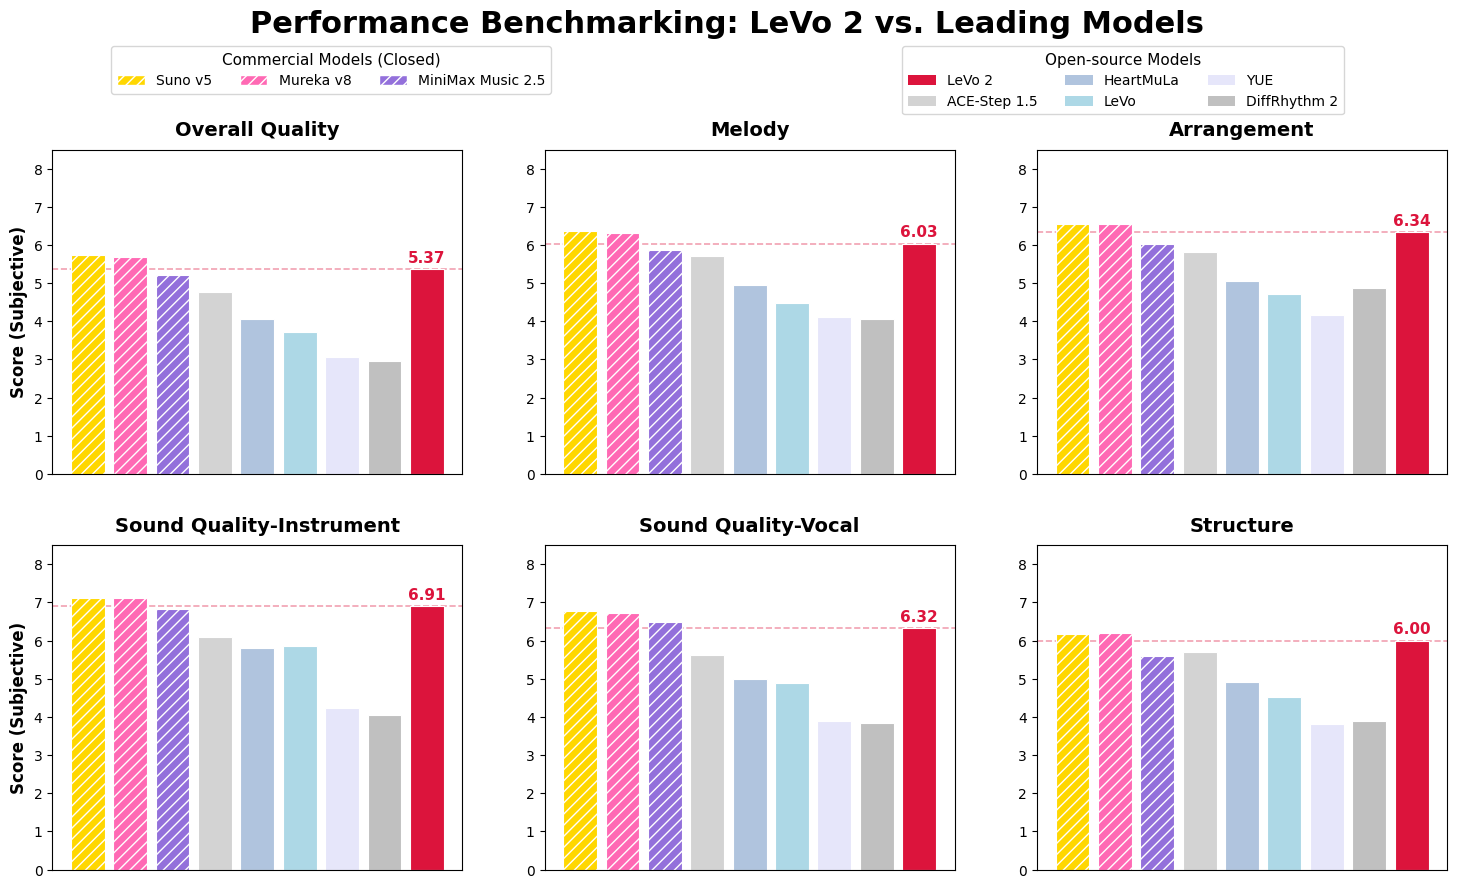
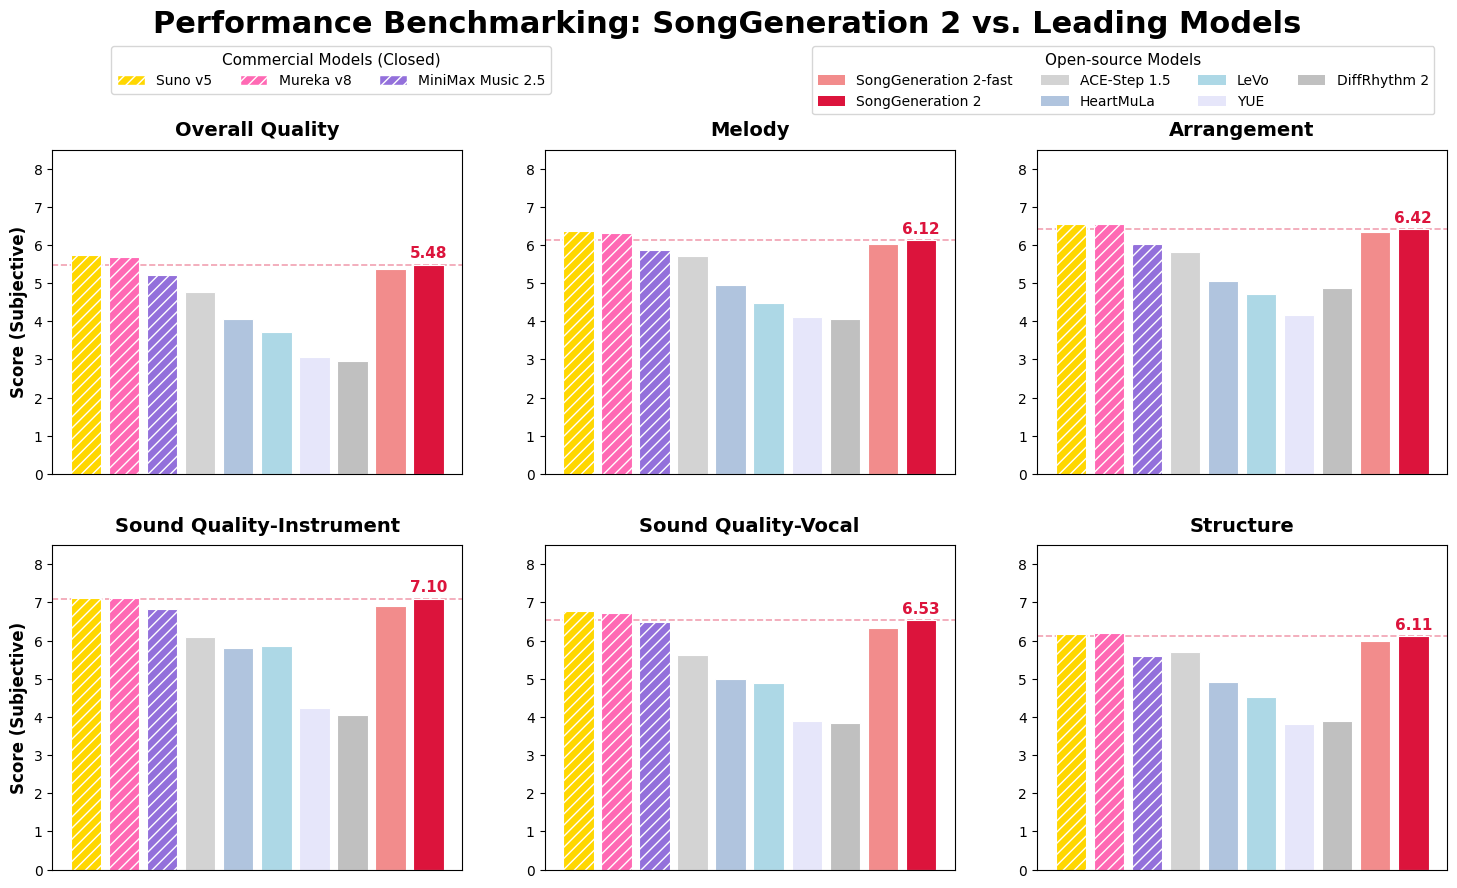
update

diff --git a/README.md b/README.md
@@ -11,7 +11,7 @@
 
 🚀 We introduce LeVo 2 (SongGeneration 2), an open-source music foundation model designed to shatter the ceiling of open-source AI music by achieving true commercial-grade generation. 
 
-Through a large-scale, rigorous expert evaluation (20 industry professionals, 6 core dimensions, 100 songs per model), LeVo 2 has proven its superiority:
+Through a large-scale, rigorous expert evaluation (20 industry professionals, 6 core dimensions, 100 songs per model), LeVo 2 (SongGeneration 2) has proven its superiority:
 
 - 🏆 Commercial-Grade Musicality: Comprehensively outperforms all open-source baselines across Overall Quality, Melody, Arrangement, Sound Quality, and Structure. Its subjective generation quality successfully rivals top-tier closed-source commercial systems (e.g., MiniMax 2.5).
 - 🎯 Precise Lyric Accuracy: Achieves an outstanding Phoneme Error Rate (PER) of 8.55%, effectively solving the lyrical hallucination problem. This remarkable accuracy significantly outperforms top commercial models like Suno v5 (12.4%) and Mureka v8 (9.96%).
@@ -299,7 +299,7 @@ To rigorously assess the generation capabilities of LeVo 2 (SongGeneration 2), w
 
 <img src="img/output.png" alt="img" style="zoom:100%;" />
 
-As shown in the benchmarking results above, LeVo 2 comprehensively outperforms all existing open-source baselines and achieves generation quality that directly rivals top-tier closed-source commercial models.
+As shown in the benchmarking results above, LeVo 2 (SongGeneration 2) comprehensively outperforms all existing open-source baselines and achieves generation quality that directly rivals top-tier closed-source commercial models.
 
 ### 📌 Notes on Evaluation & Generation
 
